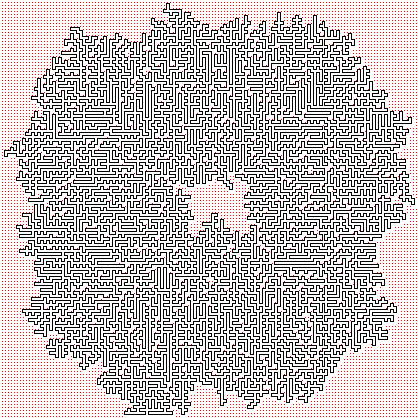
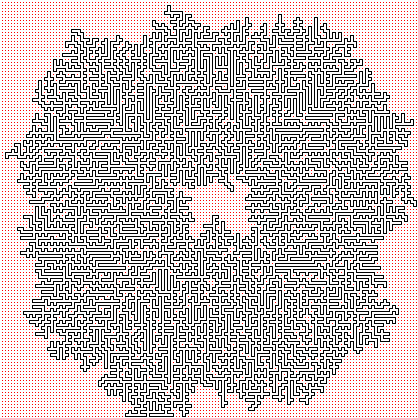
fix dot alignment

diff --git a/aoc/day10/run.py b/aoc/day10/run.py
@@ -3,6 +3,8 @@
 from print_color import print
 import numpy as np
 from skimage.morphology import flood_fill
+import turtle
+from PIL import Image
 
 src = open("input.txt", "r").readlines()
 
@@ -87,7 +89,7 @@ y, x = np.where(maze == "S")
 
 s = (x[0], y[0])
 
-maze[s[1]][s[0]] = "F"
+maze[s[1]][s[0]] = "F"  # TODO: be smarter
 # maze[s[1]][s[0]] = "7"
 
 pos = s
@@ -117,39 +119,35 @@ for y in range(maze.shape[0]):
             print(replace_all(maze[y][x]), color=color, end="")
     print()
 
-import turtle
 
-turtle.penup()
-turtle.screensize(4096, 4096)
+# turtle time!!! 🐢 🐢 🐢 🐢 🐀
 
-
+turtle.penup()  # 🐢
+turtle.screensize(4096, 4096)  # 🐢
 scale = 4
-
-x = True
+maybe = True
 
 for p in path:
-    turtle.goto(p[0] * scale, -(p[1] * scale))
-    if x:
-        turtle.pendown()
-        x = False
+    turtle.goto(p[0] * scale + scale / 2, -(p[1] * scale + scale / 2))  # 🐢
+    if maybe:
+        turtle.pendown()  # 🐢
+        maybe = False
 
 for y in range(maze.shape[0]):
     for x in range(maze.shape[1]):
         if (x, y) in path_points:
             continue
-        turtle.penup()
-        turtle.goto(x * scale + scale / 2, -(y * scale + scale / 2))
-        turtle.pendown()
-        turtle.dot(1, "red")
+        turtle.penup()  # 🐢
+        turtle.goto(x * scale + scale / 2, -(y * scale + scale / 2))  # 🐢
+        turtle.pendown()  # 🐢
+        turtle.dot(1, "red")  # 🐢
 
-turtle.hideturtle()
+turtle.hideturtle()  #
 
-# Save turtle screen as png
 cv = turtle.getcanvas()
-cv.postscript(file="turtle_output.eps", colormode="color")
-from PIL import Image
+cv.postscript(file="/tmp/turtle_output.eps", colormode="color")
 
-img = Image.open("turtle_output.eps")
+img = Image.open("/tmp/turtle_output.eps")
 img.save("turtle_output.png", "png")
 
 turtle.exitonclick()
